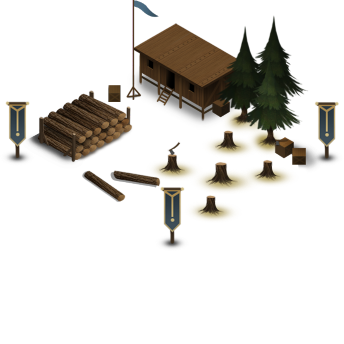
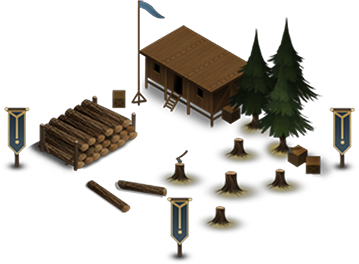
Use new Village view

diff --git a/src/app/components/clickable-building/clickable-building.component.html b/src/app/components/clickable-building/clickable-building.component.html
@@ -1,16 +1,17 @@
 <div (click)="openBuildingDialog(building.type)" class="cursor-pointer absolute text-center"
      [style.left.%]="building.placement.x" [style.top.%]="building.placement.y"
-     [style.width.px]="building.placement.width">
+     [style.width.px]="building.placement.width" [style.z-index]="building.placement.z_index">
   <img [src]="building.image" [alt]="'BuildingTypes.' + getBuildingTypeName(building.type) | translate">
   <ng-container
     [ngTemplateOutlet]="(building.upgrading && !stakeCompleteTimestamp) ? complete : building.upgrading ? inProgress : notInProgress"></ng-container>
   <ng-template #complete>
-    <span class="centered-image-description">{{ 'BuildingTypes.' + getBuildingTypeName(building.type) | translate }}
+    <span
+      [class]="isWall ? 'wall-image-description' : 'centered-image-description'">{{ 'BuildingTypes.' + getBuildingTypeName(building.type) | translate }}
       ({{'Common.Complete' | translate}})</span>
   </ng-template>
   <ng-template #inProgress>
             <span
-              class="centered-image-description">{{ 'BuildingTypes.' + getBuildingTypeName(building.type) | translate }}
+              [class]="isWall ? 'wall-image-description' : 'centered-image-description'">{{ 'BuildingTypes.' + getBuildingTypeName(building.type) | translate }}
               (<span
                 appTimestampCountdown
                 [timestamp]="stakeCompleteTimestamp || 0"
@@ -18,6 +19,6 @@
   </ng-template>
   <ng-template #notInProgress>
     <span
-      class="centered-image-description">{{ 'BuildingTypes.' + getBuildingTypeName(building.type) | translate }}</span>
+      [class]="isWall ? 'wall-image-description' : 'centered-image-description'">{{ 'BuildingTypes.' + getBuildingTypeName(building.type) | translate }}</span>
   </ng-template>
 </div>

diff --git a/src/app/app.component.html b/src/app/app.component.html
@@ -82,12 +82,11 @@
                     [timestamp]="charactersStakeCompleteTimestamp || 0"></span></p>
           </div>
         </div>
-        <div class="flex flex-wrap village-view-container">
-          <img src="assets/Village/village_background.png" alt="Village view">
-          <div class="buildings-container">
-            <app-clickable-building *ngFor="let building of buildings" [building]="building" (onLoadData)="loadData()"
-                                    [stakeCompleteTimestamp]="kingStakeCompleteTimestamp"></app-clickable-building>
+        <div class="village">
+          <div class="flooring">
           </div>
+          <app-clickable-building *ngFor="let building of buildings" [building]="building" (onLoadData)="loadData()"
+                                  [stakeCompleteTimestamp]="kingStakeCompleteTimestamp"></app-clickable-building>
         </div>
       </drag-scroll>
     </mat-drawer-container>

diff --git a/src/app/app.component.scss b/src/app/app.component.scss
@@ -14,7 +14,24 @@
   position: relative;
 }
 
-//2560 1413
+.village {
+  object-fit: cover;
+  position: relative;
+  width: 2160px;
+  height: 95vh;
+  background-size: cover;
+  background-image: url('~src/assets/Village/city_blank.jpg');
+}
+
+.flooring {
+  top: 306px;
+  left: 560px;
+  width: 1200px;
+  height: 700px;
+  position: absolute;
+  background-size: cover;
+  background-image: url('~src/assets/Village/flooring.png');
+}
 
 .buildings-container {
   position: absolute;

diff --git a/src/app/components/clickable-building/clickable-building.component.scss b/src/app/components/clickable-building/clickable-building.component.scss
@@ -1,4 +1,14 @@
-.centered-image-description {
+.centered-image-description,
+.wall-image-description {
   text-shadow: -1px -1px 0 #000, 1px -1px 0 #000, -1px 1px 0 #000, 1px 1px 0 #000;
-  @apply w-full absolute top-1/2 left-1/2 transform -translate-y-1/2 -translate-x-1/2;
+  @apply w-full absolute transform -translate-y-1/2 -translate-x-1/2;
+}
+
+.centered-image-description {
+  @apply top-1/2 left-1/2;
+}
+
+.wall-image-description {
+  top: 80%;
+  left: 25%;
 }

diff --git a/src/app/components/clickable-building/clickable-building.component.ts b/src/app/components/clickable-building/clickable-building.component.ts
@@ -34,4 +34,8 @@ export class ClickableBuildingComponent implements OnInit {
       this.onLoadData.emit();
     });
   }
+
+  get isWall() {
+    return this.building.type === BuildingType.WALL;
+  }
 }

diff --git a/src/app/solidity/land.service.ts b/src/app/solidity/land.service.ts
@@ -27,6 +27,7 @@ export interface Placement {
   x: number;
   y: number;
   width?: number;
+  z_index?: number;
 }
 
 @Injectable({
